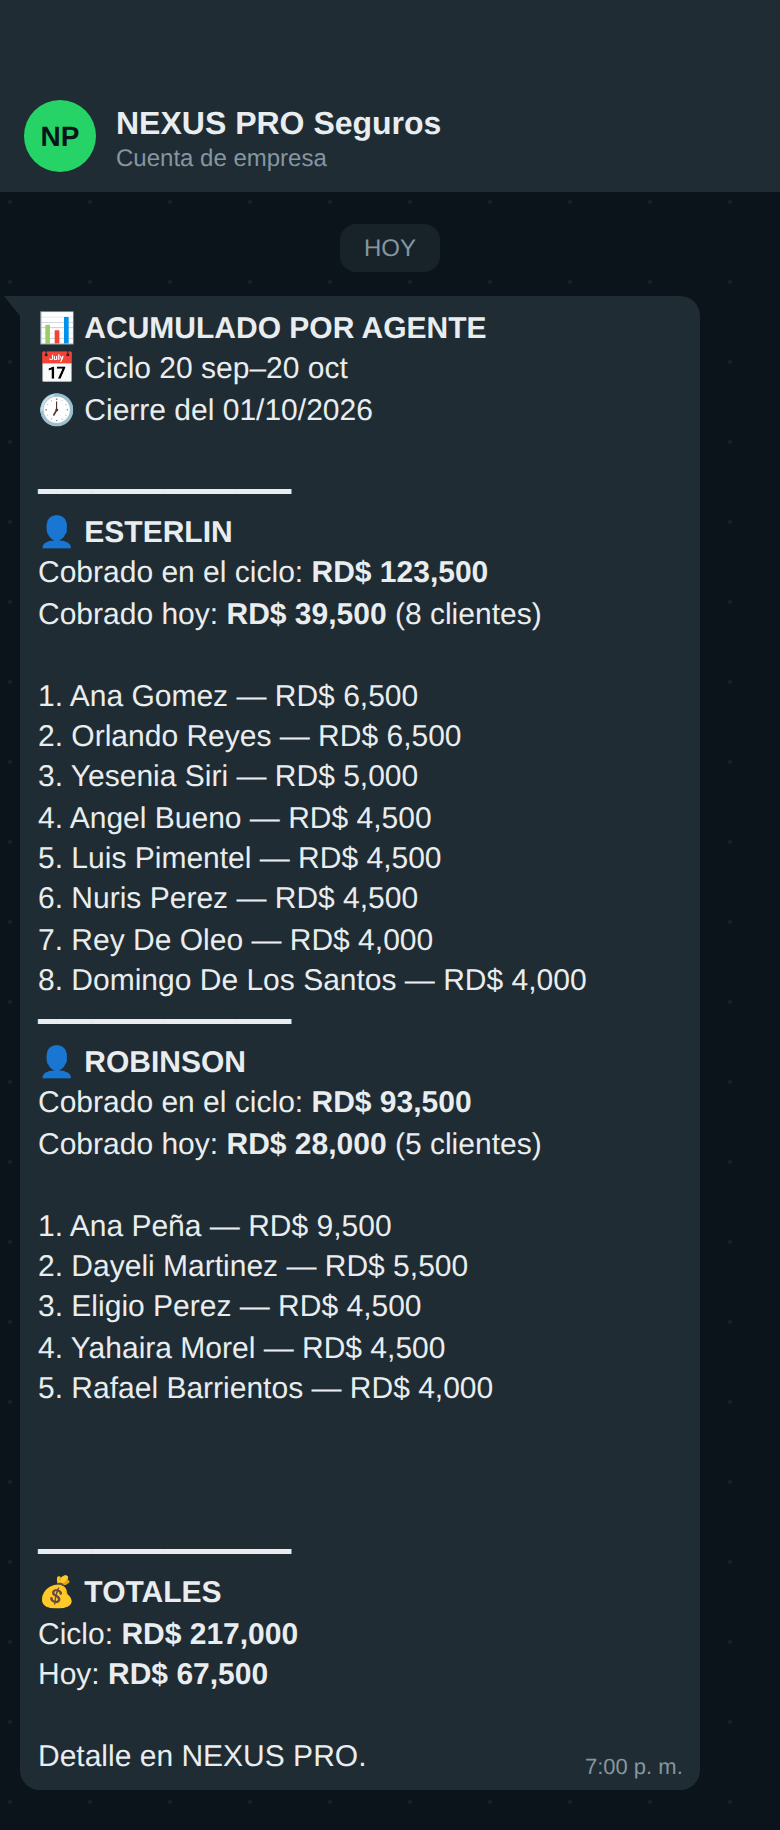
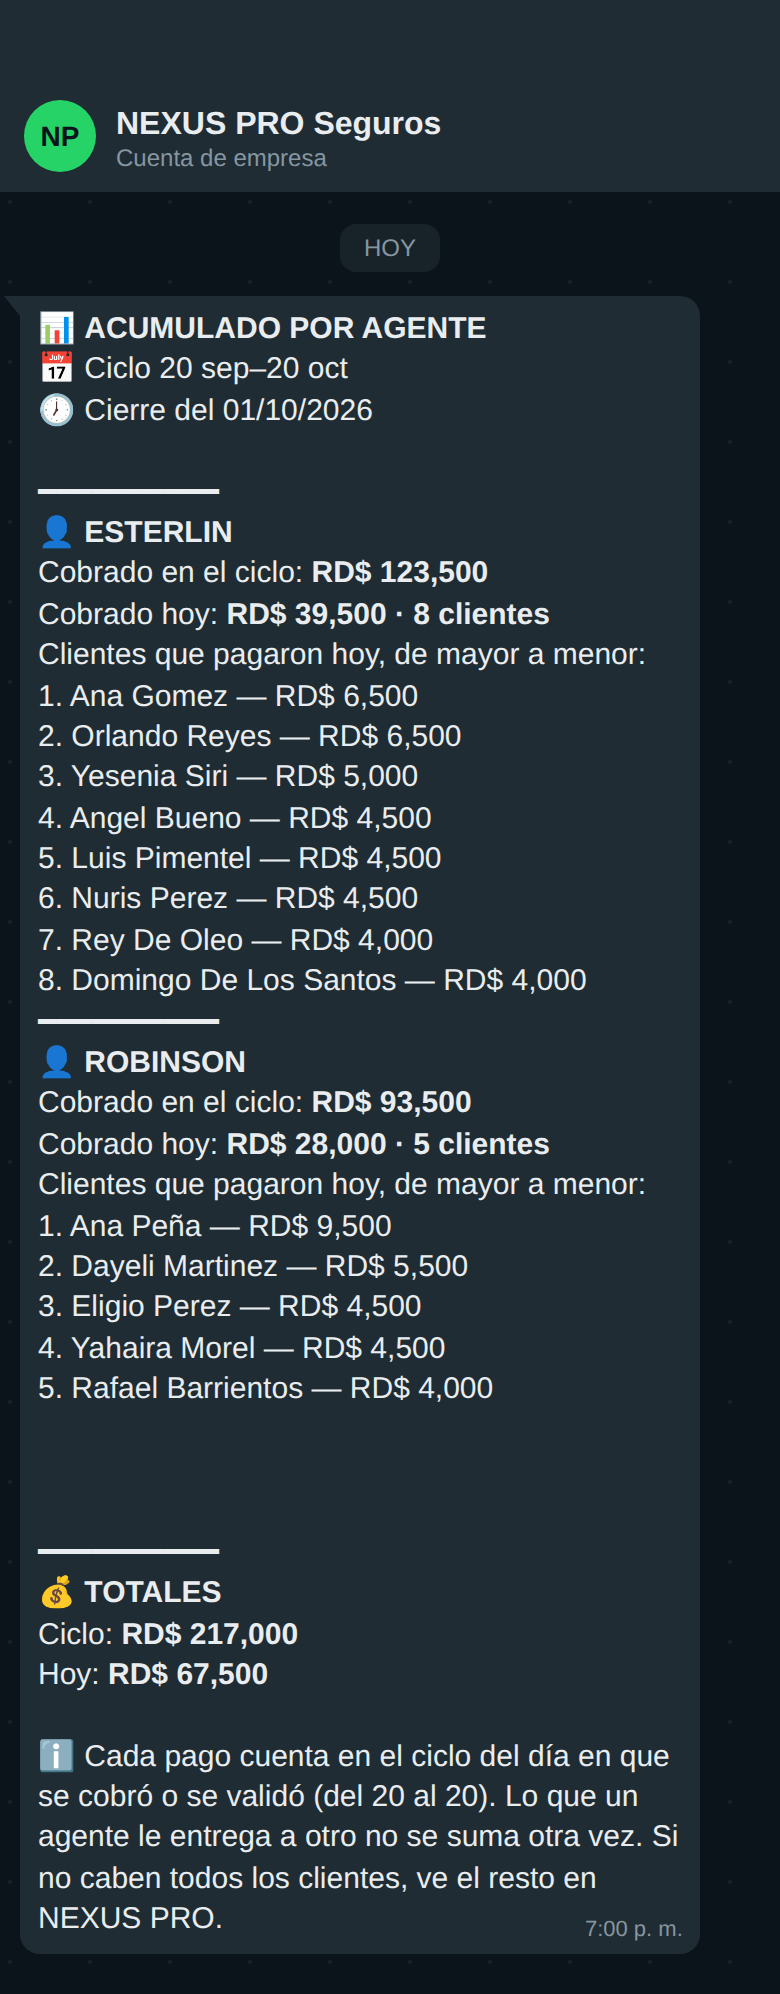
Publicación: reporte diario v2 y acumulado por agente (función v8, 3 plantillas en revisión de Meta)
Claude-Session: https://claude.ai/code/session_01XsqePqNsr899Mjtsv3s8DJ

Changed region(s): [[0.0, 0.0311, 1.0, 0.9656], [0.7692, 0.9656, 0.8308, 0.9967]]

diff --git a/supabase/functions/whatsapp-reporte-diario-agentes/index.ts b/supabase/functions/whatsapp-reporte-diario-agentes/index.ts
@@ -267,11 +267,12 @@ const CUERPO_ACUMULADO = [
   "📅 Ciclo {{1}}",
   "🕖 Cierre del {{2}}",
   "",
-  "━━━━━━━━━━━━━━",
+  "━━━━━━━━━━",
   "👤 *{{3}}*",
   "Cobrado en el ciclo: *RD$ {{4}}*",
-  "Cobrado hoy: *RD$ {{5}}* ({{6}})",
-  "",
+  "Cobrado hoy: *RD$ {{5}}*",
+  "Clientes que pagaron hoy, de mayor a menor:",
+  "{{6}}",
   "{{7}}",
   "{{8}}",
   "{{9}}",
@@ -279,31 +280,30 @@ const CUERPO_ACUMULADO = [
   "{{11}}",
   "{{12}}",
   "{{13}}",
-  "{{14}}",
-  "━━━━━━━━━━━━━━",
-  "👤 *{{15}}*",
-  "Cobrado en el ciclo: *RD$ {{16}}*",
-  "Cobrado hoy: *RD$ {{17}}* ({{18}})",
-  "",
+  "━━━━━━━━━━",
+  "👤 *{{14}}*",
+  "Cobrado en el ciclo: *RD$ {{15}}*",
+  "Cobrado hoy: *RD$ {{16}}*",
+  "Clientes que pagaron hoy, de mayor a menor:",
+  "{{17}}",
+  "{{18}}",
   "{{19}}",
   "{{20}}",
   "{{21}}",
   "{{22}}",
   "{{23}}",
   "{{24}}",
-  "{{25}}",
-  "{{26}}",
-  "━━━━━━━━━━━━━━",
+  "━━━━━━━━━━",
   "💰 *TOTALES*",
-  "Ciclo: *RD$ {{27}}*",
-  "Hoy: *RD$ {{28}}*",
+  "Ciclo: *RD$ {{25}}*",
+  "Hoy: *RD$ {{26}}*",
   "",
-  "Detalle en NEXUS PRO."
+  "ℹ Cada pago cuenta en el ciclo del día en que se cobró o se validó (del 20 al 20). Lo que un agente le entrega a otro no se suma otra vez. Si no caben todos los clientes, ve el resto en NEXUS PRO."
 ].join("\n");
 const EJ_LISTA = ["1. Ana Gómez — RD$ 6,500", "2. Orlando Reyes — RD$ 6,500", "3. Yesenia Siri — RD$ 5,000", "4. Ángel Bueno — RD$ 4,500",
   "5. Luis Pimentel — RD$ 4,500", "6. Nuris Pérez — RD$ 4,500", "7. Rey De Oleo — RD$ 4,000", "8. Domingo De Los Santos — RD$ 4,000"];
-const EJEMPLO_ACUMULADO = ["20 sep–20 oct", "01/10/2026", "JUAN", "123,500", "39,500", "8 clientes", ...EJ_LISTA,
-  "PEDRO", "93,500", "28,000", "8 clientes", ...EJ_LISTA, "217,000", "67,500"];
+const EJEMPLO_ACUMULADO = ["20 sep–20 oct", "01/10/2026", "JUAN", "123,500", "39,500 · 8 clientes", ...EJ_LISTA,
+  "PEDRO", "93,500", "28,000 · 8 clientes", ...EJ_LISTA, "217,000", "67,500"];
 // Relleno de las líneas vacías. Si Meta lo rechazara, el envío se reintenta con «·».
 const RELLENO = "\u200B";
 
@@ -318,13 +318,14 @@ function nombreYApellido(v: unknown) {
   if (i < t.length) out.push(t[i]);
   return out.map((w) => w.charAt(0).toUpperCase() + w.slice(1).toLowerCase()).join(" ");
 }
-function listaClientesHoy(items: { nom: string; monto: number }[], relleno = RELLENO) {
+// «tope» = cuántas líneas de cliente se muestran (≤ 8); baja si el mensaje pasaría del límite de Meta.
+function listaClientesHoy(items: { nom: string; monto: number }[], relleno = RELLENO, tope = SLOTS_CLIENTES) {
   const orden = [...items].sort((a, b) => b.monto - a.monto);
   const linea = (x: any, k: number) => `${k + 1}. ${nombreYApellido(x.nom)} — RD$ ${fmtCorto(x.monto)}`;
   let out: string[];
   if (!orden.length) out = ["Sin cobros hoy"];
-  else if (orden.length <= SLOTS_CLIENTES) out = orden.map(linea);
-  else out = [...orden.slice(0, SLOTS_CLIENTES - 1).map(linea), `… y ${orden.length - (SLOTS_CLIENTES - 1)} más (ver NEXUS PRO)`];
+  else if (orden.length <= tope) out = orden.map(linea);
+  else out = [...orden.slice(0, tope - 1).map(linea), `… y ${orden.length - (tope - 1)} más (ver NEXUS PRO)`];
   while (out.length < SLOTS_CLIENTES) out.push(relleno);
   return out;
 }
@@ -334,7 +335,7 @@ function renderizar(cuerpo: string, vars: string[]) {
   return cuerpo.replace(/\{\{(\d+)\}\}/g, (_m, i) => vars[Number(i) - 1] ?? "");
 }
 // Meta limita el cuerpo de la plantilla a 1024 caracteres ya con las variables.
-const MAX_CUERPO = 1000;
+const MAX_CUERPO = 1020;   // JS cuenta los emojis como 2: queda margen real
 
 async function plantillaExiste(accountId: string, nombre: string) {
   const qs = new URLSearchParams({ accountId, name: nombre, language: "es" });
@@ -611,19 +612,27 @@ Deno.serve(async (req: Request) => {
     const hoyDe = (i: any) => hoyMapa.get(String(i.a.id)) || { total: 0, porCliente: new Map<string, number>() };
     const orden = [...infos].sort((x, y) => y.cobrado - x.cobrado);
     const totalHoy = [...hoyMapa.values()].reduce((t, r) => t + r.total, 0);
-    function varsAcumulado(relleno: string) {
+    function varsAcumuladoTope(relleno: string, tope: number) {
       const slot = (i: any) => {
-        if (!i) return ["—", "0", "0", "0 clientes", ...listaClientesHoy([], relleno)];
+        if (!i) return ["—", "0", "0 · 0 clientes", ...listaClientesHoy([], relleno, tope)];
         const h = hoyDe(i);
         const n = h.porCliente.size;
         const items = [...h.porCliente.entries()].map(([id, monto]) => ({ nom: nomCliente.get(id) || "Sin nombre", monto }));
-        return [String(i.a.nom || "Agente"), fmtCorto(i.cobrado), fmtCorto(h.total), `${n} cliente${n === 1 ? "" : "s"}`, ...listaClientesHoy(items, relleno)];
+        return [String(i.a.nom || "Agente"), fmtCorto(i.cobrado), `${fmtCorto(h.total)} · ${n} cliente${n === 1 ? "" : "s"}`, ...listaClientesHoy(items, relleno, tope)];
       };
       const b1 = slot(orden[0]), b2 = slot(orden[1]);
       const extra = orden.slice(2).map((i) => `${i.a.nom}: ciclo RD$ ${fmtCorto(i.cobrado)}, hoy RD$ ${fmtCorto(hoyDe(i).total)}`).join(" · ");
       if (extra) b2[b2.length - 1] = (b2[b2.length - 1] === relleno ? "" : b2[b2.length - 1] + " · ") + extra;
       // El relleno invisible no es espacio para limpiarParam, así que se conserva.
       return [etiqueta, fecha, ...b1, ...b2, fmtCorto(negocioCiclo), fmtCorto(totalHoy)].map(limpiarParam);
+    }
+    // Meta corta en 1024 caracteres: si no cabe, se muestran menos clientes por agente.
+    function varsAcumulado(relleno: string) {
+      for (let tope = SLOTS_CLIENTES; tope >= 2; tope--) {
+        const v = varsAcumuladoTope(relleno, tope);
+        if (renderizar(CUERPO_ACUMULADO, v).length <= MAX_CUERPO) return v;
+      }
+      return varsAcumuladoTope(relleno, 2);
     }
     if (dry) {
       resultados.push({ acumulado_agentes: true, vista: renderizar(CUERPO_ACUMULADO, varsAcumulado(RELLENO)) });

diff --git a/docs/bitacora/2026-10-02-1130-claude.md b/docs/bitacora/2026-10-02-1130-claude.md
@@ -1,0 +1,63 @@
+## Claude — 2026-10-02 11:30 (RD)
+
+# PUBLICADO: reporte diario v2 + «Acumulado por agente» (autorizado: «Publícalo»)
+
+Sigue a `2026-10-02-1030-claude.md`.
+
+## Qué se publicó
+
+- Edge Function `whatsapp-reporte-diario-agentes` desplegada:
+  - **v7**: v2 + acumulado.
+  - **v8**: ajuste de la plantilla del acumulado.
+  - `verify_jwt=false` igual que antes; la autenticación sigue siendo `x-cron-token` contra `cron_secretos`.
+  - Antes de desplegar se confirmó que la v6 en vivo era idéntica a `main`.
+- Plantillas sometidas a Meta vía Zernio (`someter_plantillas`), todas **PENDING** (UTILITY, es):
+  - `reporte_diario_agente_v2` — id `1674136097616645`
+  - `reporte_diario_admin` — id `1116335894471971`
+  - `acumulado_agentes_diario` — id `4584608835107517`
+- Cron 13 sigue en `0 23 * * *` (7:00 PM RD, todos los días), cambiado el 01-oct (ver `2026-10-01-1945-claude.md`).
+
+## Incidente durante la publicación
+
+El primer envío de `acumulado_agentes_diario` fue **rechazado** por Meta (subcódigo 2388293, «proporción entre
+parámetros y palabras superior al límite»): tenía 28 variables y 31 palabras fijas.
+
+Calibración con las plantillas aceptadas:
+
+| Plantilla | Variables | Palabras | Proporción |
+|---|---:|---:|---:|
+| `reporte_diario_agente_v2` | 18 | 60 | 0.30 |
+| `reporte_diario_admin` | 26 | 77 | 0.34 |
+
+Arreglo (v8):
+
+- «Cobrado hoy» y la cantidad de clientes van en una sola variable («39,500 · 8 clientes»).
+- Encabezado «Clientes que pagaron hoy, de mayor a menor:» en cada agente.
+- Nota final explicando la regla del ciclo, que las entregas entre agentes no se suman y que el resto de clientes
+  está en NEXUS. Se quitó «Detalle en NEXUS PRO.».
+- Resultado: **26 variables / 85 palabras = 0.31**. Se mantienen 8 líneas de cliente por agente.
+- Separadores más cortos.
+- Protección de largo: si el mensaje pasaría de 1020 caracteres, se muestran menos clientes por agente
+  y el último renglón dice «… y N más (ver NEXUS PRO)».
+
+## Pruebas en producción (dry, no envía nada)
+
+- v7 y v8 responden 200 y arman los 3 mensajes con datos reales (`formato: "v1"`, porque las v2 aún no están
+  aprobadas).
+- Cifras del día:
+  - ESTERLIN: ciclo 123,500 · hoy 39,500 (8 clientes) · en poder 1,614,310 · recibió de agentes 88,500.
+  - ROBINSON: ciclo 93,500 · hoy 28,000 (5 clientes) · entregó 88,500 · en poder 338,190.
+  - Negocio: ciclo 217,000 · hoy 67,500.
+- Mensaje del acumulado: ~1001 caracteres (límite de Meta 1024).
+
+## Qué pasa ahora
+
+- Mientras Meta no apruebe, a las 7 PM sigue saliendo el reporte v1 (propio + copia al admin), sin cambios.
+- Al aprobarse `reporte_diario_agente_v2` **y** `reporte_diario_admin`, el envío pasa solo a v2: Robinson recibe
+  solo lo suyo y el admin un único mensaje.
+- Al aprobarse `acumulado_agentes_diario`, el admin recibe además el acumulado (independiente de la v2).
+- Si Meta rechazara el relleno invisible (U+200B) de las líneas vacías, la función reintenta con «·».
+
+## Pendiente
+
+Verificar la aprobación de Meta y el primer envío real de las 7 PM en `whatsapp_mensajes`.
